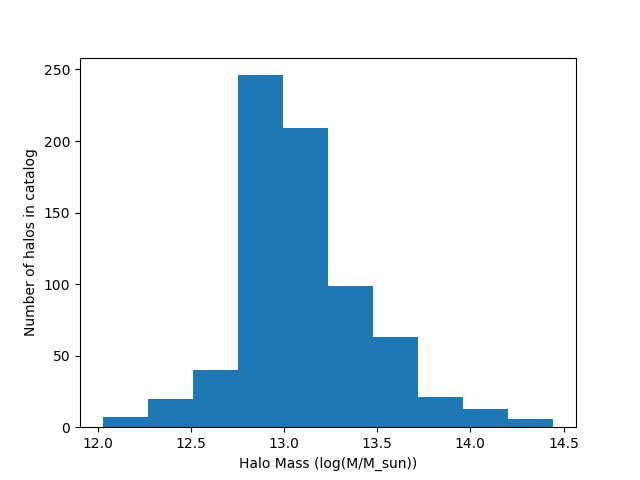
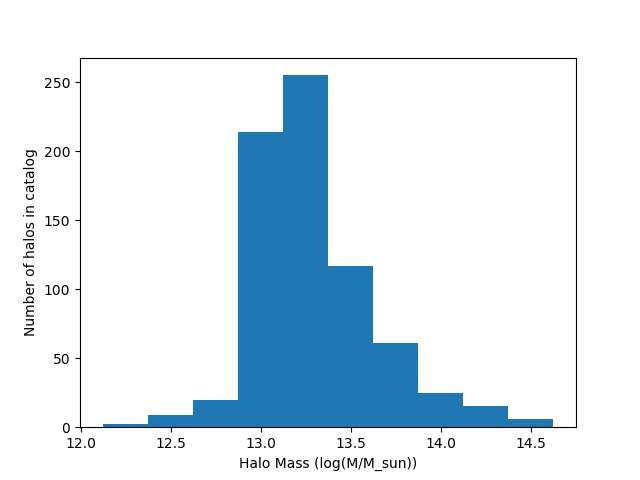
Made plots with fixed columns.

diff --git a/final_project/4096z05_plot.py b/final_project/4096z05_plot.py
@@ -10,12 +10,12 @@ WHIM_data = np.loadtxt(path+'/WHIM_data.txt',usecols=range(3,29)) # Unpack the 2
 
 # Get m200 and m180 data also.
 # Read in:
-IDs, m, r, m200, r200, m180, r180 = np.loadtxt('../haloCatalogAppending/4096z05/catalog_iso138_200_180.txt',usecols=(0,4,5,6,7,8,9),unpack=True)
+IDs, m, r, m200, r200, m180, r180 = np.loadtxt('./catalogs/catalog_iso138_200_180.txt',usecols=(0,4,5,6,7,8,9),unpack=True)
 
 # We need to cut off by halo ID to make sure we have the same size array as WHIM size!
 # Since that array is sorted we know it is the first halo
-min_halo_ID = halo_ID[0]
-
+min_halo_ID_arg = np.where(m==min(m[m>10**12]))[0]
+min_halo_ID = IDs[min_halo_ID_arg]
 sort_i = m.argsort()
 m.sort()
 r = r[sort_i]
@@ -39,9 +39,8 @@ convert_pt_Mpc = size/l
 r *= convert_pt_Mpc
 r200 *= convert_pt_Mpc
 r180 *= convert_pt_Mpc
-
 i_cutoff = int(np.where(IDs==min_halo_ID)[0])
-
+print(i_cutoff)
 if False:
     # Get size and redshift:
     path_to_data = "/global/cscratch1/sd/zarija/4096/z05.h5"
@@ -58,7 +57,7 @@ if False:
 
 # Plot WHIMsize
 ID = 'iso138' # This is the catalog we used.
-plot.WHIMsize_HaloMass_plot(m,r,WHIM_data,ID,path)
+plot.WHIMsize_HaloMass_plot(m[i_cutoff::],r[i_cutoff::],WHIM_data,ID,path)
 
 ID = 'iso138_m200'
 plot.WHIMsize_HaloMass_plot(m200[i_cutoff::],r200[i_cutoff::],WHIM_data,ID,path)
